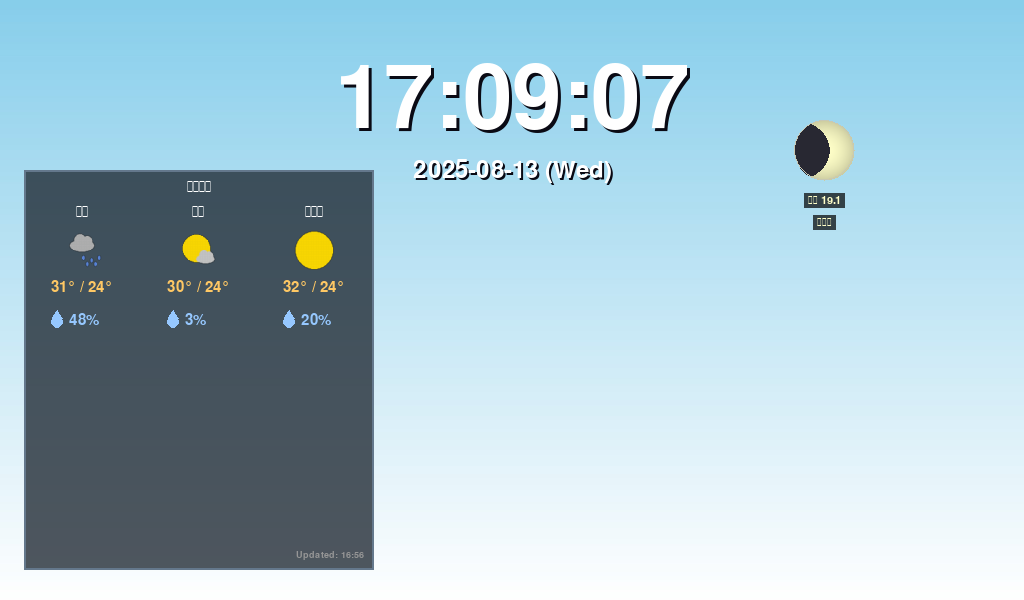
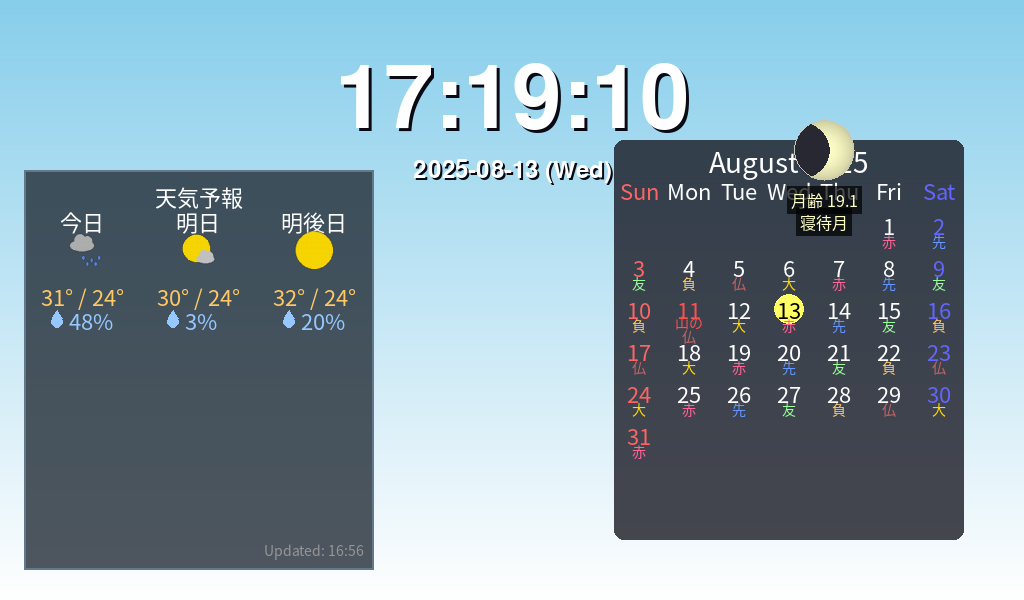
カレンダーと天気パネルのサイズ・位置を最適化
- カレンダーの高さを縮小（最大330px）
- 行間隔を36pxに統一
- 位置計算の二重マージン問題を修正
- 天気パネルも同じ高さ・位置計算を使用
- よりコンパクトで見やすいレイアウトに

🤖 Generated with Claude Code

diff --git a/src/renderers/simple_calendar_renderer.py b/src/renderers/simple_calendar_renderer.py
@@ -183,23 +183,17 @@ class SimpleCalendarRenderer:
         cal_obj = cal.monthcalendar(now.year, now.month)
         num_weeks = len(cal_obj)
         
-        # 基本サイズ計算
-        base_height = 120  # ヘッダー部分（月名+曜日）
-        row_height = 42    # 各行の高さ（設定と同期）
-        bottom_margin = 20  # 下部余白
+        # 基本サイズ計算（よりコンパクトに）
+        base_height = 80   # ヘッダー部分（月名+曜日）を縮小
+        row_height = 36    # 各行の高さを縮小（六曜含む）
+        bottom_margin = 10  # 下部余白を縮小
         
-        # 六曜や祝日名が表示される場合の追加高さ
-        extra_height_per_row = 0
-        if hasattr(self, 'rokuyou_enabled') and self.rokuyou_enabled and hasattr(self, 'show_rokuyou_names') and self.show_rokuyou_names:
-            extra_height_per_row += 15  # 六曜分
-        if hasattr(self, 'jp_holidays') and self.jp_holidays and hasattr(self, 'show_holiday_names') and self.show_holiday_names:
-            extra_height_per_row += 15  # 祝日名分
+        # 六曜表示の場合も行高さに含まれているため、追加高さは不要
+        calculated_height = base_height + (num_weeks * row_height) + bottom_margin
         
-        calculated_height = base_height + (num_weeks * (row_height + extra_height_per_row)) + bottom_margin
-        
-        # 最小・最大制限
-        min_height = 280
-        max_height = 400
+        # 最小・最大制限（よりコンパクトに）
+        min_height = 250
+        max_height = 330
         final_height = max(min_height, min(max_height, calculated_height))
         
         logger.info(f"Calendar dynamic sizing: {num_weeks} weeks, calculated={calculated_height}px, final={final_height}px")
@@ -207,32 +201,32 @@ class SimpleCalendarRenderer:
     
     def _calculate_position(self, position: str, x_offset: int, y_offset: int):
         """位置を計算"""
-        # 基本位置を決定
+        # 基本位置を決定（デフォルトマージンなし、オフセットで調整）
         if position == "top-left":
-            base_x = 30
-            base_y = 30
+            base_x = 0
+            base_y = 0
         elif position == "top-center":
             base_x = (self.screen_width - self.cal_width) // 2
-            base_y = 30
+            base_y = 0
         elif position == "top-right":
-            base_x = self.screen_width - self.cal_width - 30
-            base_y = 30
+            base_x = self.screen_width - self.cal_width
+            base_y = 0
         elif position == "center":
             base_x = (self.screen_width - self.cal_width) // 2
             base_y = (self.screen_height - self.cal_height) // 2
         elif position == "bottom-left":
-            base_x = 30
-            base_y = self.screen_height - self.cal_height - 30
+            base_x = 0
+            base_y = self.screen_height - self.cal_height
         elif position == "bottom-center":
             base_x = (self.screen_width - self.cal_width) // 2
-            base_y = self.screen_height - self.cal_height - 30
+            base_y = self.screen_height - self.cal_height
         elif position == "bottom-right":
-            base_x = self.screen_width - self.cal_width - 30
-            base_y = self.screen_height - self.cal_height - 30
+            base_x = self.screen_width - self.cal_width
+            base_y = self.screen_height - self.cal_height
         else:
             # デフォルト: 右下
-            base_x = self.screen_width - self.cal_width - 30
-            base_y = self.screen_height - self.cal_height - 30
+            base_x = self.screen_width - self.cal_width
+            base_y = self.screen_height - self.cal_height
         
         # オフセットを適用
         self.cal_x = base_x + x_offset
@@ -261,7 +255,7 @@ class SimpleCalendarRenderer:
             # カレンダーヘッダー（月年）
             month_year = now.strftime("%B %Y")
             month_text = self.font.render(month_year, True, self.text_color)
-            month_rect = month_text.get_rect(center=(self.cal_x + self.cal_width // 2, self.cal_y + 20))
+            month_rect = month_text.get_rect(center=(self.cal_x + self.cal_width // 2, self.cal_y + 15))
             screen.blit(month_text, month_rect)
             
             # 曜日ヘッダー
@@ -278,14 +272,14 @@ class SimpleCalendarRenderer:
                 
                 day_text = self.small_font.render(day, True, color)
                 day_x = self.cal_x + i * day_width + day_width // 2
-                day_rect = day_text.get_rect(center=(day_x, self.cal_y + 50))
+                day_rect = day_text.get_rect(center=(day_x, self.cal_y + 40))
                 screen.blit(day_text, day_rect)
             
             # カレンダー日付（日曜日始まりに設定）
             # calendarモジュールを日曜日始まりに設定
             calendar.setfirstweekday(calendar.SUNDAY)
             cal_obj = calendar.monthcalendar(now.year, now.month)
-            day_y = self.cal_y + 85  # カレンダー開始位置を少し下に
+            day_y = self.cal_y + 65  # カレンダー開始位置（よりコンパクトに）
             
             for week in cal_obj:
                 for i, day in enumerate(week):
@@ -361,7 +355,7 @@ class SimpleCalendarRenderer:
                                 logger.debug(f"Failed to render rokuyou for {current_date}: {e}")
                                 pass  # 六曜表示エラーは無視
                 
-                day_y += 42  # 行間をさらに広げる（38→42）
+                day_y += 36  # 行間を適切に（動的高さ計算と同期）
             
         except Exception as e:
             logger.error(f"Failed to render calendar: {e}")

diff --git a/src/renderers/simple_weather_renderer.py b/src/renderers/simple_weather_renderer.py
@@ -320,8 +320,15 @@ class SimpleWeatherRenderer:
         # 天気パネルの背景を描画（カレンダーと同じサイズに動的調整）
         panel_width = 350  # カレンダーと同じ幅
         panel_height = self._get_calendar_height()  # カレンダー高さを動的取得
-        panel_x = 24  # 左マージン
-        panel_y = screen.get_height() - panel_height - 30  # 下部余白30px
+        
+        # レイアウト設定から位置を取得（デフォルト値）
+        layout = self.settings.get('layout', {}).get('weather', {})
+        x_offset = layout.get('x_offset', 30)
+        y_offset = layout.get('y_offset', -30)
+        
+        # パネル位置（画面下端から配置、オフセット適用）
+        panel_x = x_offset if x_offset > 0 else x_offset  # 左側配置
+        panel_y = screen.get_height() - panel_height + y_offset  # 下端からのオフセット
         
         # 半透明の背景パネル
         panel_surface = pygame.Surface((panel_width, panel_height))
@@ -444,17 +451,16 @@ class SimpleWeatherRenderer:
         cal_obj = cal.monthcalendar(now.year, now.month)
         num_weeks = len(cal_obj)
         
-        # カレンダーレンダラーと同じ計算ロジック
-        base_height = 120
-        row_height = 42
-        bottom_margin = 20
-        extra_height_per_row = 15  # 六曜・祝日分の概算
+        # カレンダーレンダラーと同じ計算ロジック（更新版）
+        base_height = 80
+        row_height = 36
+        bottom_margin = 10
         
-        calculated_height = base_height + (num_weeks * (row_height + extra_height_per_row)) + bottom_margin
+        calculated_height = base_height + (num_weeks * row_height) + bottom_margin
         
-        # 最小・最大制限
-        min_height = 280
-        max_height = 400
+        # 最小・最大制限（更新版）
+        min_height = 250
+        max_height = 330
         return max(min_height, min(max_height, calculated_height))
     
     def cleanup(self):
